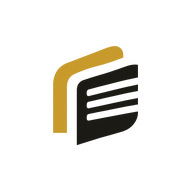
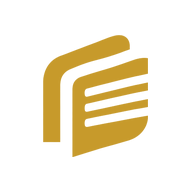
Add files via upload

Changed region(s): [[0.2188, 0.1562, 0.7812, 0.8438]]

diff --git a/index.html b/index.html
@@ -8,12 +8,13 @@ body{margin:0;background:var(--bg);color:var(--ink);font:16px/1.45 -apple-system
 main{max-width:640px;margin:0 auto;padding:18px 16px 28px}
 header{display:flex;align-items:center;justify-content:space-between}h1{display:flex;align-items:center;gap:9px;margin:0}
 .mk{position:relative;width:33px;height:38px}.mk i{position:absolute;inset:0}.mk i,.wd{-webkit-mask-repeat:no-repeat;mask-repeat:no-repeat;-webkit-mask-position:center;mask-position:center;-webkit-mask-size:contain;mask-size:contain}
-.m1{background:var(--acc);-webkit-mask-image:url(logo-back.png);mask-image:url(logo-back.png)}.m2{background:var(--ink);-webkit-mask-image:url(logo-front.png);mask-image:url(logo-front.png)}
-.wd{width:83px;height:32px;background:var(--ink);-webkit-mask-image:url(logo-word.png);mask-image:url(logo-word.png)}
+.m1{background:var(--acc);-webkit-mask-image:url(logo-back.png);mask-image:url(logo-back.png)}.m2{background:var(--acc);-webkit-mask-image:url(logo-front.png);mask-image:url(logo-front.png)}
+.wd{width:83px;height:32px;background:var(--acc);-webkit-mask-image:url(logo-word.png);mask-image:url(logo-word.png)}
 .hd{display:flex;justify-content:space-between;align-items:center}.meta{color:var(--mut);font-size:14px;margin:0 0 6px}.drop span:empty{display:none}
 .item{display:flex;align-items:center;gap:12px;background:var(--card);border:1px solid var(--line);border-radius:14px;padding:10px;margin-top:10px;cursor:pointer}
 .item img{width:96px;height:60px;object-fit:cover;object-position:left top;border-radius:8px;border:1px solid var(--line);background:#fff}
 .item div{flex:1;min-width:0}.item b{display:block;overflow:hidden;text-overflow:ellipsis;white-space:nowrap}.item span{color:var(--mut);font-size:13.5px}
+#hl .p{max-height:94vh;overflow:auto}button:disabled{opacity:.4}.fields{display:grid;gap:8px;margin:12px 0}.fields input{font:inherit;color:var(--ink);background:var(--bg);border:1px solid var(--line);border-radius:10px;padding:10px 12px;width:100%}.fields input::placeholder{color:var(--mut)}
 .tools{display:flex;gap:8px;align-items:center;flex-wrap:wrap}#sw{display:flex;gap:6px}.sw{width:26px;height:26px;border-radius:50%;border:2px solid var(--line);padding:0}button.ghost.on{background:var(--acc);color:var(--on);border-color:var(--acc)}
 #home.entry>section:not(#s4){display:none}main[data-v=lib] .ic-lib,main:not([data-v=lib]) .ic-new{display:none}
 h1,h2{margin:0;font-weight:600;letter-spacing:-.01em}h2{font-size:19px;margin-bottom:6px}
@@ -21,7 +22,7 @@ h1,h2{margin:0;font-weight:600;letter-spacing:-.01em}h2{font-size:19px;margin-bo
 section{background:var(--card);border:1px solid var(--line);border-radius:16px;padding:16px;margin-top:14px}
 .drop{display:block;border:1.5px dashed var(--acc);border-radius:12px;padding:22px 14px;text-align:center;cursor:pointer}
 .drop b{display:block;font-size:17px}.drop span{color:var(--mut);font-size:13.5px}
-canvas#prev{width:100%;border-radius:10px;touch-action:none;display:block;background:#000}
+canvas#prev{touch-action:none;display:block;margin:0 auto}
 input[type=range]{width:100%;accent-color:var(--acc);margin:12px 0 4px}
 .row{display:flex;align-items:center;justify-content:space-between;gap:12px;margin:12px 0}
 select{font:inherit;color:var(--ink);background:var(--bg);border:1px solid var(--line);border-radius:8px;padding:6px 8px}
@@ -37,10 +38,10 @@ button.w{width:100%}
 .card button{padding:4px 10px;font-size:13px}
 .two{display:grid;grid-template-columns:1fr 1fr;gap:10px}
 footer{text-align:center;margin-top:22px}#ver{font-size:11px;color:var(--mut);user-select:none;-webkit-user-select:none;-webkit-touch-callout:none;padding:8px}
-#log{position:fixed;inset:0;background:rgba(0,0,0,.45);display:none;align-items:flex-end;justify-content:center;z-index:9}#log.on{display:flex}
-#log .p{background:var(--card);width:100%;max-width:520px;border-radius:18px 18px 0 0;padding:16px 18px calc(18px + env(safe-area-inset-bottom));animation:up .25s ease}
+#log,#hl{position:fixed;inset:0;background:rgba(0,0,0,.45);display:none;align-items:flex-end;justify-content:center;z-index:9}#log.on,#hl.on{display:flex}
+#log .p,#hl .p{background:var(--card);width:100%;max-width:520px;border-radius:18px 18px 0 0;padding:16px 18px calc(18px + env(safe-area-inset-bottom));animation:up .25s ease}
 @keyframes up{from{transform:translateY(40px);opacity:0}}
-#log .h{display:flex;justify-content:space-between;align-items:center}
+#log .h,#hl .h{display:flex;justify-content:space-between;align-items:center}
 .ib{background:none;border:0;padding:6px;color:var(--ink);line-height:0}.ib svg{width:22px;height:22px;fill:none;stroke:currentColor;stroke-width:1.6;stroke-linecap:round;stroke-linejoin:round}
 :root[data-t=dark] .moon,:root:not([data-t=dark]) .sun{display:none}
 #log ul{margin:8px 0 0;padding-left:18px;font-size:14px}#log small{color:var(--mut)}
@@ -57,11 +58,13 @@ footer{text-align:center;margin-top:22px}#ver{font-size:11px;color:var(--mut);us
 </div>
 <button class="w" id="go">Scan video</button><div class="bar"><i id="pb"></i></div><p class="hint" id="msg"></p></section>
 <section id="s4" hidden><div class="hd"><h2 id="cnt">Pages found</h2><button class="ghost" id="back" hidden>Library</button></div><p class="meta" id="ename" hidden></p><div id="grid"></div>
-<div class="two"><button id="pdf">Save PDF</button><button id="img">Save long image</button></div></section>
+<div class="fields"><input id="ttl" type="text" placeholder="Title" autocomplete="off"><input id="src" type="text" placeholder="Source (link or arranger)" autocomplete="off"></div>
+<div class="two"><button id="pdf">Save PDF</button><button id="img">Save long image</button></div><button class="ghost w" id="fold" hidden style="margin-top:10px">Save folder: Downloads</button><p class="meta" id="sv" style="margin:8px 0 0"></p></section>
 </div><div id="libv" hidden><h2>Library</h2><div id="liblist"></div></div>
-<footer><span id="ver">v1.3</span></footer></main>
+<footer><span id="ver">v1.4</span></footer></main>
 <div id="log"><div class="p"><div class="h"><h2>What's new</h2><button id="th" class="ib" aria-label="Switch light or dark mode"><svg class="sun" viewBox="0 0 24 24"><circle cx="12" cy="12" r="4"/><path d="M12 2v2M12 20v2M4.9 4.9l1.4 1.4M17.7 17.7l1.4 1.4M2 12h2M20 12h2M4.9 19.1l1.4-1.4M17.7 6.3l1.4-1.4"/></svg><svg class="moon" viewBox="0 0 24 24"><path d="M20 14.5A8 8 0 0 1 9.5 4 8 8 0 1 0 20 14.5z"/></svg></button></div>
-<ul><li><b>1.3</b> Smarter stitching: rows break at bar lines, repeated pages are flagged, and a highlight or moving line can be removed by tapping it.</li><li><b>1.2</b> Now called folio, with a new look and logo. A library keeps every capture.</li><li><b>1.1</b> Scroll stitching: join tabs that scroll sideways or upward into rows or pages.</li><li><b>1.0</b> First version: pick a video, box the tab, auto-pick one clean frame per page, export PDF or one long image.</li></ul></div></div>
+<ul><li><b>1.4</b> Title and source heading on the PDF, a save folder, a resizable frame box, a sharper preview, a clearer highlight remover and a larger circular icon.</li><li><b>1.3</b> Smarter stitching: rows break at bar lines, repeated pages are flagged, and a highlight or moving line can be removed by tapping it.</li><li><b>1.2</b> Now called folio, with a new look and logo. A library keeps every capture.</li><li><b>1.1</b> Scroll stitching: join tabs that scroll sideways or upward into rows or pages.</li><li><b>1.0</b> First version: pick a video, box the tab, auto-pick one clean frame per page, export PDF or one long image.</li></ul></div></div>
+<div id="hl"><div class="p"><div class="h"><h2>Remove highlight</h2></div><p class="meta" id="hlmsg" style="margin:8px 0"></p><canvas id="hlc" style="display:block;border-radius:10px;margin:0 auto 10px"></canvas><div class="row"><span>Strength</span><input id="hlt" type="range" min="8" max="60" value="25"></div><div class="two"><button class="ghost" id="hlx">Cancel</button><button id="hlok" disabled>Remove</button></div></div></div>
 <video id="v" muted playsinline preload="auto" style="position:fixed;width:2px;height:2px;opacity:0;pointer-events:none"></video>
 <script>
 const $=s=>document.querySelector(s),V=$('#v'),prev=$('#prev'),pc=prev.getContext('2d');
@@ -75,15 +78,24 @@ $('#log').onclick=e=>{if(e.target.id=='log')e.target.classList.remove('on')};
 const cv=(w,h)=>{const c=document.createElement('canvas');c.width=w;c.height=h;return c};
 const seek=t=>new Promise(r=>{t=Math.min(Math.max(t,0),V.duration-.05);if(Math.abs(V.currentTime-t)<.001)return r();const h=()=>{V.removeEventListener('seeked',h);r()};V.addEventListener('seeked',h);V.currentTime=t;setTimeout(r,3000)});
 function grab(maxW){const W=V.videoWidth,H=V.videoHeight,sw=crop.w*W,sh=crop.h*H,k=Math.min(1,maxW/sw),c=cv(Math.max(1,Math.round(sw*k)),Math.max(1,Math.round(sh*k)));c.getContext('2d').drawImage(V,crop.x*W,crop.y*H,sw,sh,0,0,c.width,c.height);return c}
-function drawPrev(fr){const w=Math.min(prev.parentElement.clientWidth-32,640),hh=Math.round(V.videoHeight*w/V.videoWidth);if(fr||!base||base.width!=w){base=cv(w,hh);base.getContext('2d').drawImage(V,0,0,w,hh);if(ovl.length)clean(base,null)}prev.width=w;prev.height=hh;pc.drawImage(base,0,0);const x=crop.x*prev.width,y=crop.y*prev.height,cw=crop.w*prev.width,ch=crop.h*prev.height;pc.fillStyle='rgba(0,0,0,.55)';pc.beginPath();pc.rect(0,0,prev.width,prev.height);pc.rect(x,y,cw,ch);pc.fill('evenodd');pc.strokeStyle='#d6ab3f';pc.lineWidth=2;pc.strokeRect(x,y,cw,ch)}
+const PM=14,HN=['tl','tr','bl','br','t','b','l','r'],hpts=(x,y,w,h)=>[[x,y],[x+w,y],[x,y+h],[x+w,y+h],[x+w/2,y],[x+w/2,y+h],[x,y+h/2],[x+w,y+h/2]];
+function drawPrev(fr){const dp=Math.min(3,window.devicePixelRatio||1),cw=Math.min(prev.parentElement.clientWidth-32,780),iw=cw-2*PM,ih=Math.round(iw*V.videoHeight/V.videoWidth),ch=ih+2*PM;
+if(fr||!base||base.width!==Math.round(iw*dp)){base=cv(Math.round(iw*dp),Math.round(ih*dp));const bx=base.getContext('2d');bx.imageSmoothingQuality='high';bx.drawImage(V,0,0,base.width,base.height);if(ovl.length)clean(base,null)}
+prev.style.width=cw+'px';prev.style.height=ch+'px';prev.width=Math.round(cw*dp);prev.height=Math.round(ch*dp);pc.setTransform(dp,0,0,dp,0,0);pc.imageSmoothingQuality='high';pc.clearRect(0,0,cw,ch);pc.drawImage(base,PM,PM,iw,ih);
+const rx=PM+crop.x*iw,ry=PM+crop.y*ih,rw=crop.w*iw,rh=crop.h*ih,ac=getComputedStyle(document.documentElement).getPropertyValue('--acc');
+pc.fillStyle='rgba(0,0,0,.5)';pc.beginPath();pc.rect(PM,PM,iw,ih);pc.rect(rx,ry,rw,rh);pc.fill('evenodd');pc.strokeStyle=ac;pc.lineWidth=2;pc.strokeRect(rx,ry,rw,rh);
+hpts(rx,ry,rw,rh).forEach((q,i)=>{pc.beginPath();pc.arc(q[0],q[1],i<4?8:6,0,7);pc.fillStyle=ac;pc.fill();pc.lineWidth=2;pc.strokeStyle='#fff';pc.stroke()});G={iw,ih}}
 $('#file').onchange=e=>{const f=e.target.files[0];if(!f)return;vname=f.name.replace(/\.[^.]+$/,'');$('#fname').textContent=f.name;V.src=URL.createObjectURL(f);
 V.onloadedmetadata=async()=>{crop={x:0,y:0,w:1,h:1};$('#s2').hidden=$('#s3').hidden=false;$('#s4').hidden=true;const s=$('#scrub');s.max=V.duration;s.value=V.duration*.3;await seek(V.duration*.3);drawPrev(true)};V.onerror=()=>alert('This video format can\'t be opened here. Try an MP4.')};
 let tmr;$('#scrub').oninput=e=>{clearTimeout(tmr);tmr=setTimeout(async()=>{await seek(+e.target.value);drawPrev(true)},60)};
 $('#reset').onclick=()=>{crop={x:0,y:0,w:1,h:1};drawPrev()};
-let ds=null;const pt=e=>{const b=prev.getBoundingClientRect();return{x:Math.min(1,Math.max(0,(e.clientX-b.left)/b.width)),y:Math.min(1,Math.max(0,(e.clientY-b.top)/b.height))}};
-prev.onpointerdown=e=>{if(pick){samp(pt(e));return}ds=pt(e);prev.setPointerCapture(e.pointerId)};
-prev.onpointermove=e=>{if(!ds)return;const p=pt(e);crop={x:Math.min(ds.x,p.x),y:Math.min(ds.y,p.y),w:Math.abs(p.x-ds.x),h:Math.abs(p.y-ds.y)};drawPrev()};
-prev.onpointerup=()=>{ds=null;if(crop.w<.03||crop.h<.03){crop={x:0,y:0,w:1,h:1};drawPrev()}};
+let dg=null;const cp=e=>{const b=prev.getBoundingClientRect();return{x:e.clientX-b.left,y:e.clientY-b.top}};
+prev.onpointerdown=e=>{if(!G)return;const p=cp(e),r=[PM+crop.x*G.iw,PM+crop.y*G.ih,crop.w*G.iw,crop.h*G.ih];let best=-1,bd=28;hpts(...r).forEach((q,i)=>{const d=Math.hypot(q[0]-p.x,q[1]-p.y);if(d<bd){bd=d;best=i}});
+if(best>=0)dg={m:HN[best]};else if(p.x>r[0]&&p.x<r[0]+r[2]&&p.y>r[1]&&p.y<r[1]+r[3])dg={m:'move',px:p.x,py:p.y,c:{...crop}};else return;prev.setPointerCapture(e.pointerId)};
+prev.onpointermove=e=>{if(!dg)return;const p=cp(e),nx=Math.min(1,Math.max(0,(p.x-PM)/G.iw)),ny=Math.min(1,Math.max(0,(p.y-PM)/G.ih)),m=dg.m,mn=.04;
+if(m=='move'){const c=dg.c;crop={x:Math.min(1-c.w,Math.max(0,c.x+(p.x-dg.px)/G.iw)),y:Math.min(1-c.h,Math.max(0,c.y+(p.y-dg.py)/G.ih)),w:c.w,h:c.h}}
+else{let x=crop.x,y=crop.y,x2=x+crop.w,y2=y+crop.h;if(m.includes('l'))x=Math.min(nx,x2-mn);if(m.includes('r'))x2=Math.max(nx,x+mn);if(m.includes('t'))y=Math.min(ny,y2-mn);if(m.includes('b'))y2=Math.max(ny,y+mn);crop={x,y,w:x2-x,h:y2-y}}drawPrev()};
+prev.onpointerup=prev.onpointercancel=()=>{dg=null};
 const diff=(a,b)=>{let n=0;for(let i=0;i<a.length;i++)if(Math.abs(a[i]-b[i])>40)n++;return n/a.length};
 function medoid(seg){const c=seg.length>7?Array.from({length:7},(_,i)=>seg[Math.round(i*(seg.length-1)/6)]):seg;let best=c[0],bs=1e9;for(const a of c){let s=0;for(const b of c)if(a!==b)s+=diff(a.g,b.g);if(s<bs){bs=s;best=a}}return best}
 const prog=p=>$('#pb').style.width=Math.round(p*100)+'%';
@@ -104,10 +116,10 @@ function serr(A,B,m,ax,cs){const w=A.w,h=A.h,a=A.e,b=B.e;let n=0,d=0;
 if(ax=='x'){for(let y=0;y<h;y+=cs)for(let x=0;x<w-m;x++){const p=a[y*w+x+m],q=b[y*w+x];if(p|q){d++;if(p!==q)n++}}}
 else{for(let y=0;y<h-m;y++)for(let x=0;x<w;x+=cs){const p=a[(y+m)*w+x],q=b[y*w+x];if(p|q){d++;if(p!==q)n++}}}
 return d<15?-1:n/d}
-let ovl=[],SREF={bg:null},pick=false,base=null;
+let ovl=[],SREF={bg:null},base=null,G=null;
 function clean(c,ref){const x=c.getContext('2d'),im=x.getImageData(0,0,c.width,c.height),d=im.data,w=c.width,h=c.height,n=w*h;let m=null;
-if(ovl.length){m=new Uint8Array(n);for(let i=0;i<n;i++){const r=d[i*4],g=d[i*4+1],b=d[i*4+2];for(const o of ovl){const p=r-o[0],q=g-o[1],s=b-o[2];if(p*p+q*q+s*s<3600){m[i]=1;break}}}
-const m2=m.slice();for(let y=0;y<h;y++)for(let k=0;k<w;k++){const i=y*w+k;if(m[i]){if(k>0)m2[i-1]=1;if(k<w-1)m2[i+1]=1;if(y>0)m2[i-w]=1;if(y<h-1)m2[i+w]=1}}m=m2}
+if(ovl.length){m=new Uint8Array(n);for(let i=0;i<n;i++){const r=d[i*4],g=d[i*4+1],b=d[i*4+2];if(ovHit(ovl,r,g,b))m[i]=1;}
+const m2=m.slice();for(let y=0;y<h;y++)for(let k=0;k<w;k++){const i=y*w+k;if(m[i]){if(k>0)m2[i-1]=1;if(k<w-1)m2[i+1]=1;if(y>0)m2[i-w]=1;if(y<h-1)m2[i+w]=1}}m=m2;let mc=0;for(let i=0;i<n;i++)mc+=m[i];if(mc>.9*n)m=null}
 const cn=new Uint32Array(4096),sr=new Float64Array(4096),sg=new Float64Array(4096),sb=new Float64Array(4096);
 for(let i=0;i<n;i+=3){if(m&&m[i])continue;const r=d[i*4],g=d[i*4+1],b=d[i*4+2],k=(r>>4)<<8|(g>>4)<<4|(b>>4);cn[k]++;sr[k]+=r;sg[k]+=g;sb[k]+=b}
 let bk=0;for(let k=1;k<4096;k++)if(cn[k]>cn[bk])bk=k;const bg=cn[bk]?[sr[bk]/cn[bk],sg[bk]/cn[bk],sb[bk]/cn[bk]]:[255,255,255];
@@ -122,10 +134,21 @@ let g=1;if(ref){if(!ref.bg)ref.bg=bg;else{const kx=[0,1,2].map(j=>Math.min(3,Mat
 if(kx.some(v=>Math.abs(v-1)>.03))for(let i=0;i<n*4;i+=4){d[i]=Math.min(255,d[i]*kx[0]);d[i+1]=Math.min(255,d[i+1]*kx[1]);d[i+2]=Math.min(255,d[i+2]*kx[2])}}}
 x.putImageData(im,0,0);return g}
 const grabC=w=>{const c=grab(w);clean(c,SREF);return c};
-function upOv(){$('#pk').classList.toggle('on',pick);prev.style.cursor=pick?'crosshair':'';const s=$('#sw');s.innerHTML='';ovl.forEach((o,i)=>{const b=document.createElement('button');b.className='sw';b.style.background='rgb('+o+')';b.setAttribute('aria-label','Stop removing this colour');b.onclick=()=>{ovl.splice(i,1);upOv();drawPrev(true)};s.append(b)})}
-function samp(p){const t=cv(prev.width,prev.height),x=t.getContext('2d');x.drawImage(V,0,0,t.width,t.height);const px=Math.round(p.x*t.width),py=Math.round(p.y*t.height),d=x.getImageData(Math.max(0,px-2),Math.max(0,py-2),5,5).data,v=[[],[],[]];
-for(let i=0;i<d.length;i+=4)for(let j=0;j<3;j++)v[j].push(d[i+j]);ovl.push(v.map(a=>a.sort((p,q)=>p-q)[Math.floor(a.length/2)]));pick=false;upOv();drawPrev(true)}
-$('#pk').onclick=()=>{pick=!pick;upOv()};
+function hsvOf(r,g,b){const mx=Math.max(r,g,b),mn=Math.min(r,g,b),d=mx-mn;let h=0;if(d){h=mx==r?((g-b)/d)%6:mx==g?(b-r)/d+2:(r-g)/d+4;h*=60;if(h<0)h+=360}return[h,mx?d/mx:0,mx/255]}
+function ovHit(list,r,g,b){const mx=r>g?(r>b?r:b):(g>b?g:b),mn=r<g?(r<b?r:b):(g<b?g:b),d=mx-mn,s=mx?d/mx:0,v=mx/255;let h=0;if(d){h=mx==r?((g-b)/d)%6:mx==g?(b-r)/d+2:(r-g)/d+4;h*=60;if(h<0)h+=360}
+for(const o of list){if(o.s<.2){const p=r-o.r,q=g-o.g,u=b-o.b;if(p*p+q*q+u*u<o.t*o.t)return true}else if(v>=.25&&s>=Math.max(.15,o.s*.45)){let x=Math.abs(h-o.h);if(x>180)x=360-x;if(x<=o.t)return true}}return false}
+function upOv(){const s=$('#sw');s.innerHTML='';ovl.forEach((o,i)=>{const b=document.createElement('button');b.className='sw';b.style.background='rgb('+o.r+','+o.g+','+o.b+')';b.setAttribute('aria-label','Stop removing this colour');b.onclick=()=>{ovl.splice(i,1);upOv();drawPrev(true)};s.append(b)})}
+const hl=$('#hl'),hc=$('#hlc'),hx=hc.getContext('2d');let hb=null,cur=null;
+$('#pk').onclick=()=>{if(!V.videoWidth)return;const dp=Math.min(3,window.devicePixelRatio||1),cw=Math.min(innerWidth-40,500);hb=cv(Math.round(cw*dp),Math.round(cw*dp*V.videoHeight/V.videoWidth));const t=hb.getContext('2d');t.imageSmoothingQuality='high';t.drawImage(V,0,0,hb.width,hb.height);
+hc.width=hb.width;hc.height=hb.height;hc.style.width=cw+'px';cur=null;hlDraw();hl.classList.add('on')};
+function hlDraw(){hx.drawImage(hb,0,0);if(!cur){$('#hlmsg').textContent='Tap the highlight or line to remove';$('#hlok').disabled=true;return}
+const im=hx.getImageData(0,0,hc.width,hc.height),d=im.data;let n=0;for(let i=0;i<d.length;i+=4)if(ovHit([cur],d[i],d[i+1],d[i+2])){n++;d[i]=d[i]*.35+166;d[i+1]=d[i+1]*.35+13;d[i+2]=d[i+2]*.35+85}
+hx.putImageData(im,0,0);const f=n/(d.length/4);$('#hlmsg').textContent=f>.6?'That covers most of the frame. Tap the highlight itself.':f<.0002?'Nothing matched. Tap the highlight again.':'Pink areas will be removed';$('#hlok').disabled=!(f>=.0002&&f<=.6)}
+hc.onclick=e=>{const b=hc.getBoundingClientRect(),k=hc.width/b.width,px=Math.round((e.clientX-b.left)*k),py=Math.round((e.clientY-b.top)*k),R=Math.round(10*k),x0=Math.max(0,px-R),y0=Math.max(0,py-R),w=Math.min(hc.width-x0,2*R+1),h=Math.min(hc.height-y0,2*R+1),d=hb.getContext('2d').getImageData(x0,y0,w,h).data;
+let bi=0,bs=-1;for(let i=0;i<d.length;i+=4){const mx=Math.max(d[i],d[i+1],d[i+2]),mn=Math.min(d[i],d[i+1],d[i+2]),sc=mx?(mx-mn)/mx*(mx/255):0;if(sc>bs){bs=sc;bi=i}}
+if(bs<.12)bi=(Math.floor(h/2)*w+Math.floor(w/2))*4;const r=d[bi],g=d[bi+1],bl=d[bi+2],[hh,s]=hsvOf(r,g,bl);cur={r,g,b:bl,h:hh,s,t:+$('#hlt').value};hlDraw()};
+$('#hlt').oninput=()=>{if(cur){cur.t=+$('#hlt').value;hlDraw()}};$('#hlx').onclick=()=>hl.classList.remove('on');
+$('#hlok').onclick=()=>{if(cur)ovl.push(cur);hl.classList.remove('on');upOv();drawPrev(true)};
 function sig(c){const s=cv(320,Math.max(8,Math.round(320*c.height/c.width))),x=s.getContext('2d');x.fillStyle='#fff';x.fillRect(0,0,s.width,s.height);x.drawImage(c,0,0,s.width,s.height);const d=x.getImageData(0,0,s.width,s.height).data,n=s.width*s.height,l=new Float32Array(n);let mean=0;
 for(let i=0;i<n;i++){l[i]=d[i*4]*.3+d[i*4+1]*.59+d[i*4+2]*.11;mean+=l[i]}mean/=n;const e=new Uint8Array(n);for(let i=0;i<n;i++)e[i]=Math.abs(l[i]-mean)>40?1:0;return{e,w:s.width,h:s.height}}
 function dedupe(){const sg=frames.map(f=>sig(f.c));frames.forEach((f,i)=>{for(let j=0;j<i;j++){if(frames[j].dup)continue;const a=sg[j],b=sg[i];if(a.w!==b.w||Math.abs(a.h-b.h)>3)continue;const n=Math.min(a.e.length,b.e.length);let o=0,df=0;for(let k=0;k<n;k++){const p=a.e[k],q=b.e[k];if(p|q){o++;if(p!==q)df++}}
@@ -169,36 +192,47 @@ $('#mode').onchange=()=>{$('#pgopts').hidden=$('#mode').value!='pages'};
 const fmt=t=>Math.floor(t/60)+':'+String(Math.floor(t%60)).padStart(2,'0');
 function render(){const g=$('#grid');g.innerHTML='';frames.forEach(f=>{const d=document.createElement('div');d.className='card'+(f.keep?'':' off');const b=document.createElement('button');b.className='ghost';b.textContent=f.keep?'Remove':'Restore';b.onclick=()=>{f.keep=!f.keep;render();saveKeeps()};const m=document.createElement('div');m.innerHTML='<span>'+(f.label||fmt(f.t))+(f.dup?' (repeat)':'')+'</span>';m.append(b);d.append(f.c,m);g.append(d)});
 const n=frames.filter(f=>f.keep).length;$('#cnt').textContent=n?n+(n==1?' page found':' pages found'):'No pages found'}
-function layout(list){const W=1240,H=1754,M=70,G=28,pages=[];let c,x,y;const np=()=>{c=cv(W,H);x=c.getContext('2d');x.fillStyle='#fff';x.fillRect(0,0,W,H);pages.push(c);y=M};np();
+function layout(list,hd){const W=1240,H=1754,M=70,G=28,pages=[];let c,x,y;const np=()=>{c=cv(W,H);x=c.getContext('2d');x.fillStyle='#fff';x.fillRect(0,0,W,H);pages.push(c);y=M};np();if(hd&&(hd.t||hd.s))y=headDraw(x,hd);
 for(const f of list){let w=W-2*M,h=f.c.height*w/f.c.width;if(h>H-2*M){h=H-2*M;w=f.c.width*h/f.c.height}if(y+h>H-M&&y>M)np();x.drawImage(f.c,M,y,w,h);y+=h+G}return pages}
 function makePDF(pg){const enc=new TextEncoder(),parts=[],off=[];let len=0;const add=x=>{const b=typeof x=='string'?enc.encode(x):x;parts.push(b);len+=b.length};
 const obj=(id,h,s)=>{off[id]=len;add(id+' 0 obj\n'+h);if(s){add('\nstream\n');add(s);add('\nendstream')}add('\nendobj\n')};
 add('%PDF-1.4\n');obj(1,'<</Type/Catalog/Pages 2 0 R>>');obj(2,'<</Type/Pages/Kids['+pg.map((_,i)=>(3+i*3)+' 0 R').join(' ')+']/Count '+pg.length+'>>');
-pg.forEach((p,i)=>{const a=3+i*3,cs='q 595 0 0 842 0 0 cm /I Do Q';obj(a,'<</Type/Page/Parent 2 0 R/MediaBox[0 0 595 842]/Resources<</XObject<</I '+(a+2)+' 0 R>>>>/Contents '+(a+1)+' 0 R>>');obj(a+1,'<</Length '+cs.length+'>>',cs);
+pg.forEach((p,i)=>{const a=3+i*3,cs='q 595 0 0 842 0 0 cm /I Do Q';obj(a,'<</Type/Page/Parent 2 0 R/MediaBox[0 0 595 842]/Resources<</XObject<</I '+(a+2)+' 0 R>>>>/Contents '+(a+1)+' 0 R'+(i==0&&p.lk?'/Annots['+(3+pg.length*3)+' 0 R]':'')+'>>');obj(a+1,'<</Length '+cs.length+'>>',cs);
 obj(a+2,'<</Type/XObject/Subtype/Image/Width '+p.w+'/Height '+p.h+'/ColorSpace/DeviceRGB/BitsPerComponent 8/Filter/DCTDecode/Length '+p.jpg.length+'>>',p.jpg)});
-const xr=len,N=3+pg.length*3;add('xref\n0 '+N+'\n0000000000 65535 f \n');for(let i=1;i<N;i++)add(String(off[i]).padStart(10,'0')+' 00000 n \n');
+if(pg[0].lk){const l=pg[0].lk,e=l.u.replace(/[^\x20-\x7e]/g,'').replace(/[\\()]/g,'\\$&');obj(3+pg.length*3,'<</Type/Annot/Subtype/Link/Rect['+[l.x*595/1240,842-(l.y+l.h)*842/1754,(l.x+l.w)*595/1240,842-l.y*842/1754].map(v=>v.toFixed(1)).join(' ')+']/Border[0 0 0]/A<</S/URI/URI('+e+')>>>>')}
+const xr=len,N=3+pg.length*3+(pg[0].lk?1:0);add('xref\n0 '+N+'\n0000000000 65535 f \n');for(let i=1;i<N;i++)add(String(off[i]).padStart(10,'0')+' 00000 n \n');
 add('trailer\n<</Size '+N+'/Root 1 0 R>>\nstartxref\n'+xr+'\n%%EOF');return new Blob(parts,{type:'application/pdf'})}
-function save(b,n){const a=document.createElement('a');a.href=URL.createObjectURL(b);a.download=n;a.click();setTimeout(()=>URL.revokeObjectURL(a.href),5000)}
+const fn=()=>($('#ttl').value.trim()||vname).replace(/[\\/:*?"<>|]+/g,'').trim()||'tab';
+const upFold=n=>$('#fold').textContent='Save folder: '+(n||'Downloads');
+async function dirH(ask){try{const r=await dbp('prefs','readonly',s=>s.get('dir')),h=r&&r.h;if(!h)return null;if(await h.queryPermission({mode:'readwrite'})==='granted')return h;if(ask&&await h.requestPermission({mode:'readwrite'})==='granted')return h}catch(e){}return null}
+async function save(b,n){const h=await dirH(true);if(h){try{const f=await h.getFileHandle(n,{create:true}),w=await f.createWritable();await w.write(b);await w.close();$('#sv').textContent='Saved to '+h.name+', '+n;return}catch(e){}}
+const a=document.createElement('a');a.href=URL.createObjectURL(b);a.download=n;a.click();setTimeout(()=>URL.revokeObjectURL(a.href),5000);$('#sv').textContent='Saved '+n}
+if('showDirectoryPicker' in window){$('#fold').hidden=false;dirH(false).then(h=>h&&upFold(h.name));$('#fold').onclick=async()=>{try{const h=await showDirectoryPicker({mode:'readwrite'});await dbp('prefs','readwrite',s=>s.put({id:'dir',h}));upFold(h.name)}catch(e){}}}
+$('#ttl').oninput=$('#src').oninput=()=>{if(!cm)return;cm.title=$('#ttl').value;cm.src=$('#src').value;dbp('caps','readwrite',s=>s.put(cm)).catch(()=>{})};
+function headDraw(x,hd){const W=1240,M=70,fam='-apple-system,"Helvetica Neue",Arial,sans-serif';let y=M;x.textBaseline='top';x.fillStyle='#c79a2b';hd.lk=null;
+if(hd.t){let fs=60;x.font='600 '+fs+'px '+fam;while(x.measureText(hd.t).width>W-2*M&&fs>34){fs-=2;x.font='600 '+fs+'px '+fam}let t=hd.t;while(x.measureText(t).width>W-2*M&&t.length>3)t=t.slice(0,-2);if(t!==hd.t)t+='…';x.fillText(t,M,y);y+=fs+16}
+if(hd.s){x.font='400 28px '+fam;x.fillStyle='#6b6558';let s=hd.s;while(x.measureText(s).width>W-2*M&&s.length>3)s=s.slice(0,-2);if(s!==hd.s)s+='…';x.fillText(s,M,y);if(/^https?:\/\//i.test(hd.s))hd.lk={x:M,y,w:x.measureText(s).width,h:34,u:hd.s};y+=46}
+x.fillStyle='#c79a2b';x.fillRect(M,y+4,W-2*M,3);return y+44}
 const keep=()=>frames.filter(f=>f.keep);
-$('#pdf').onclick=()=>{const l=keep();if(!l.length)return;const pg=layout(l).map(c=>({w:c.width,h:c.height,jpg:Uint8Array.from(atob(c.toDataURL('image/jpeg',.92).split(',')[1]),ch=>ch.charCodeAt(0))}));save(makePDF(pg),vname+' tab.pdf')};
+$('#pdf').onclick=()=>{const l=keep();if(!l.length)return;const hd={t:$('#ttl').value.trim(),s:$('#src').value.trim()},pg=layout(l,hd).map((c,i)=>({w:c.width,h:c.height,lk:i==0?hd.lk:null,jpg:Uint8Array.from(atob(c.toDataURL('image/jpeg',.92).split(',')[1]),ch=>ch.charCodeAt(0))}));save(makePDF(pg),fn()+'.pdf')};
 $('#img').onclick=()=>{const l=keep();if(!l.length)return;const G=l[0].ax=='y'?0:24,W=Math.max(...l.map(f=>f.c.width));let H=0;l.forEach(f=>H+=f.c.height*W/f.c.width+G);const k=Math.min(1,Math.sqrt(16e6/(W*H))),c=cv(Math.round(W*k),Math.round(H*k)),x=c.getContext('2d');x.fillStyle='#fff';x.fillRect(0,0,c.width,c.height);let y=0;
-l.forEach(f=>{const h=f.c.height*W/f.c.width*k;x.drawImage(f.c,0,y,c.width,h);y+=h+G*k});c.toBlob(b=>save(b,vname+' tab.png'))};
+l.forEach(f=>{const h=f.c.height*W/f.c.width*k;x.drawImage(f.c,0,y,c.width,h);y+=h+G*k});c.toBlob(b=>save(b,fn()+'.png'))};
 
 let cm=null,fromEntry=false,view='home';
-const DB=()=>new Promise((ok,no)=>{const r=indexedDB.open('folio',1);r.onupgradeneeded=()=>{r.result.createObjectStore('caps',{keyPath:'id'});r.result.createObjectStore('blobs',{keyPath:'id'})};r.onsuccess=()=>ok(r.result);r.onerror=()=>no(r.error)});
+const DB=()=>new Promise((ok,no)=>{const r=indexedDB.open('folio',2);r.onupgradeneeded=()=>{const d=r.result;for(const n of ['caps','blobs','prefs'])if(!d.objectStoreNames.contains(n))d.createObjectStore(n,{keyPath:'id'})};r.onsuccess=()=>ok(r.result);r.onerror=()=>no(r.error)});
 const dbp=async(st,mode,fn)=>{const d=await DB();return new Promise((ok,no)=>{const t=d.transaction(st,mode),o=(Array.isArray(st)?st:[st]).map(n=>t.objectStore(n)),q=fn(...o);t.oncomplete=()=>ok(q&&q.result);t.onerror=()=>no(t.error)})};
 const bl=c=>new Promise(r=>c.toBlob(r,'image/jpeg',.92));
-async function persist(){fromEntry=false;cm=null;if(!frames.length)return;try{const th=cv(240,Math.max(8,Math.round(240*frames[0].c.height/frames[0].c.width)));th.getContext('2d').drawImage(frames[0].c,0,0,th.width,th.height);
+async function persist(){fromEntry=false;cm=null;$('#ttl').value=vname;$('#src').value='';if(!frames.length)return;try{const th=cv(240,Math.max(8,Math.round(240*frames[0].c.height/frames[0].c.width)));th.getContext('2d').drawImage(frames[0].c,0,0,th.width,th.height);
 const id=String(Date.now()),parts=[];for(const f of frames)parts.push({label:f.label,t:f.t,ax:f.ax,dup:f.dup,blob:await bl(f.c)});
-cm={id,name:vname,date:Date.now(),thumb:th.toDataURL('image/jpeg',.7),keeps:frames.map(f=>f.keep),count:frames.length};await dbp(['caps','blobs'],'readwrite',(a,b)=>{a.put(cm);b.put({id,parts})})}catch(e){}}
+cm={id,name:vname,title:vname,src:'',date:Date.now(),thumb:th.toDataURL('image/jpeg',.7),keeps:frames.map(f=>f.keep),count:frames.length};await dbp(['caps','blobs'],'readwrite',(a,b)=>{a.put(cm);b.put({id,parts})})}catch(e){}}
 function saveKeeps(){if(!cm)return;cm.keeps=frames.map(f=>f.keep);cm.count=cm.keeps.filter(Boolean).length;dbp('caps','readwrite',s=>s.put(cm)).catch(()=>{})}
 function go(v){view=v;$('#home').hidden=v=='lib';$('#libv').hidden=v!='lib';$('#home').classList.toggle('entry',v=='entry');$('#back').hidden=$('#ename').hidden=v!='entry';$('main').dataset.v=v;if(v=='home'&&fromEntry){$('#s4').hidden=true;fromEntry=false}if(v=='lib')showLib();scrollTo(0,0)}
 async function showLib(){const l=(await dbp('caps','readonly',s=>s.getAll()))||[];l.sort((a,b)=>b.date-a.date);const box=$('#liblist');box.innerHTML='';if(!l.length){box.innerHTML='<p class="meta">No captures yet.</p>';return}
-for(const m of l){const d=document.createElement('div');d.className='item';d.innerHTML='<img alt=""><div><b></b><span></span></div>';d.querySelector('img').src=m.thumb;d.querySelector('b').textContent=m.name;
+for(const m of l){const d=document.createElement('div');d.className='item';d.innerHTML='<img alt=""><div><b></b><span></span></div>';d.querySelector('img').src=m.thumb;d.querySelector('b').textContent=m.title||m.name;
 d.querySelector('span').textContent=new Date(m.date).toLocaleDateString(undefined,{day:'numeric',month:'short',year:'numeric'})+', '+m.keeps.filter(Boolean).length+(m.keeps.filter(Boolean).length==1?' page':' pages');
 const x=document.createElement('button');x.className='ghost';x.textContent='Delete';x.onclick=async e=>{e.stopPropagation();if(!confirm('Delete this capture?'))return;await dbp(['caps','blobs'],'readwrite',(a,b)=>{a.delete(m.id);b.delete(m.id)});showLib()};d.append(x);d.onclick=()=>openCap(m);box.append(d)}}
 async function openCap(m){const r=await dbp('blobs','readonly',s=>s.get(m.id));if(!r)return;frames=[];for(let i=0;i<r.parts.length;i++){const p=r.parts[i],bm=await createImageBitmap(p.blob),c=cv(bm.width,bm.height);c.getContext('2d').drawImage(bm,0,0);frames.push({label:p.label,t:p.t,ax:p.ax,dup:p.dup,c,keep:m.keeps[i]!==false})}
-cm=m;vname=m.name;fromEntry=true;$('#ename').textContent=m.name+', '+new Date(m.date).toLocaleDateString(undefined,{day:'numeric',month:'short',year:'numeric'});$('#s4').hidden=false;render();go('entry')}
+cm=m;vname=m.name;fromEntry=true;$('#ttl').value=m.title||m.name;$('#src').value=m.src||'';$('#ename').textContent=m.name+', '+new Date(m.date).toLocaleDateString(undefined,{day:'numeric',month:'short',year:'numeric'});$('#s4').hidden=false;render();go('entry')}
 $('#nav').onclick=()=>go(view=='lib'?'home':'lib');$('#back').onclick=()=>go('lib');
 if('serviceWorker' in navigator)navigator.serviceWorker.register('sw.js');
 </script></body></html>

diff --git a/sw.js b/sw.js
@@ -1,4 +1,4 @@
-const CACHE_NAME='folio-v1.3',FILES=['./','index.html','manifest.json','icon-192.png','icon-512.png','logo-back.png','logo-front.png','logo-word.png'];
+const CACHE_NAME='folio-v1.4',FILES=['./','index.html','manifest.json','icon-192.png','icon-512.png','logo-back.png','logo-front.png','logo-word.png'];
 self.addEventListener('install',e=>{e.waitUntil(caches.open(CACHE_NAME).then(c=>c.addAll(FILES)));self.skipWaiting()});
 self.addEventListener('activate',e=>{e.waitUntil(caches.keys().then(k=>Promise.all(k.filter(n=>n!==CACHE_NAME).map(n=>caches.delete(n)))));self.clients.claim()});
 self.addEventListener('fetch',e=>{e.respondWith(caches.match(e.request).then(r=>r||fetch(e.request)))});
